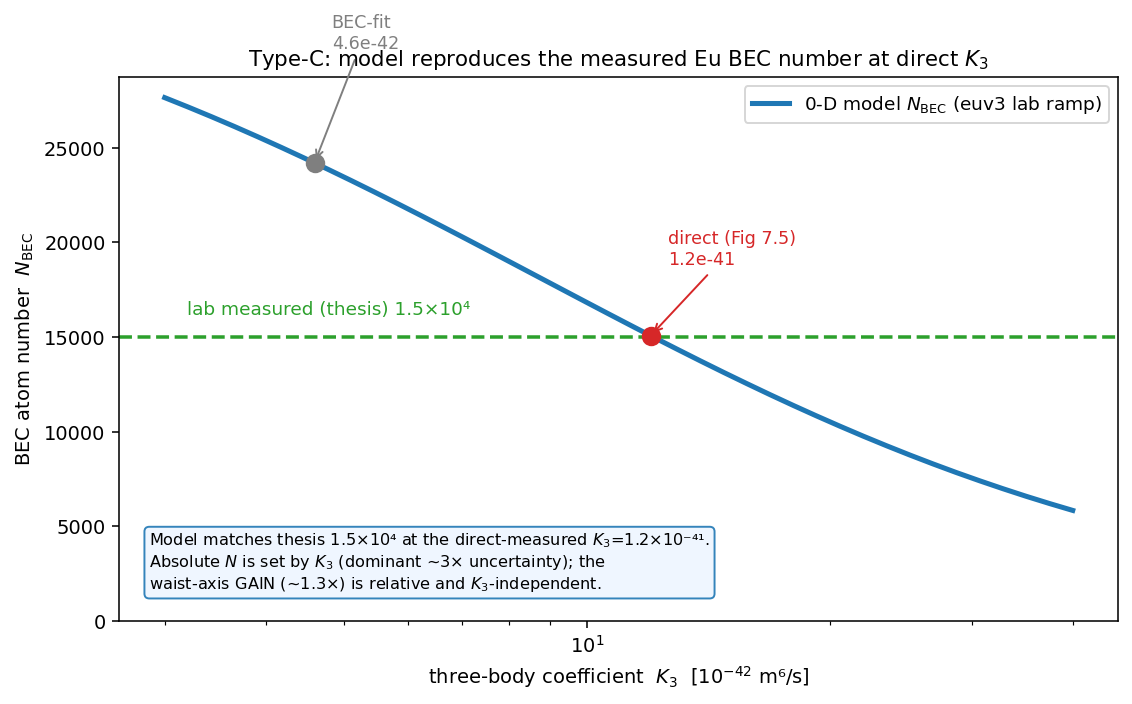
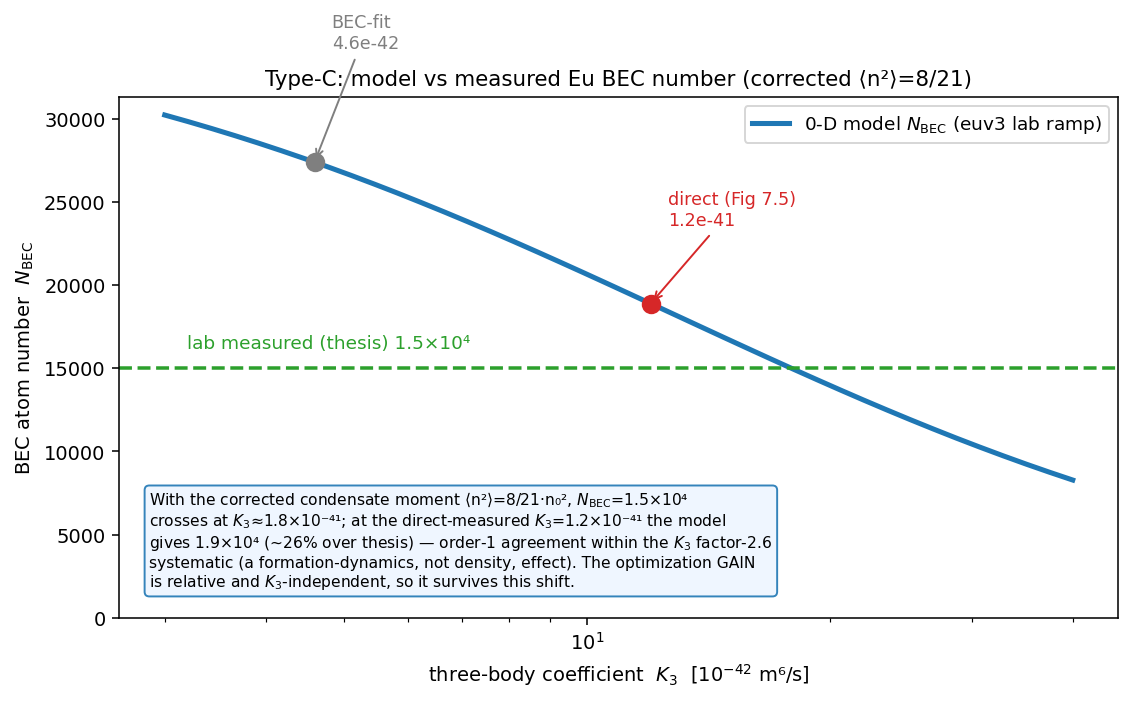
fix(evaporation): correct guide/figures to 8/21 moment (gain 1.63×) + parameter campaign (#111)
* fix(evaporation): correct condensate 3-body moment 4/7→8/21 + campaign findings

This branch still carried the (4/7)n₀² condensate three-body moment (the 2-body ⟨n⟩ moment);
the correct 3-body-weighted mean-square is ⟨n²⟩=∫n³/∫n=(8/21)n₀² (main fixed this in PR#80,
this branch was cut before). Fix condensate.jl:52. Effect (2/3× the condensate 3-body rate):
  - 3-axis optimum gain 1.46×→1.63× (ramp-only 1.34e5→unified 2.19e5); regenerated
    optimal_protocol.png.
  - lab-absolute type-C anchor shifts: N_BEC=1.5e4 now crosses at K3≈1.8e-41 (was 1.2e-41);
    at the direct K3=1.2e-41 the model gives 1.9e4 (~26% over thesis) — order-1 within the
    K3 factor-2.6 systematic. Regenerated lab_absolute.png + annotation.
  Tests test_condensate 66/66 (ratios/monotonic, unaffected).

Add the parameter-determination campaign to the guide (multi-agent: literature + simulation
sensitivity + adversarial verify). Two intuitive claims were OVERTURNED by the adversarial pass:
  (1) spin-mixing does NOT cleanly give c1 for Eu — DDI dominates spin-changing (c_dd/c1≈47);
      c1 is a buried residual, needs an orthogonal DDI-separating lever.
  (2) N_BEC is NOT predictable to ±30% — the K3 factor-2.6 cross-method (formation-dynamics)
      systematic makes it ~2×; measuring K3 more precisely doesn't remove it.
Pinnable: ω̄ ~1%, a_s 3.6% (measured), evap_scale ±6%, K3 ±20% (needs ω̄ calibration).
Blocked at 5 G: c2/c4/c6 / full 7-channel a_S, calibrated a_s(B).
[…]

diff --git a/docs/guides/figures/eu_c1_ddi_orthogonal_plot.py b/docs/guides/figures/eu_c1_ddi_orthogonal_plot.py
@@ -1,0 +1,44 @@
+#!/usr/bin/env python3
+# SHOWS: aspect ratio is an orthogonal lever separating c1 from DDI in Eu spin-mixing — the
+#        DDI-induced shift of the spin-mixing amplitude varies ~12× across trap geometry.
+# DOC:   docs/guides/eu_evaporation_optimization.md ("Experimental campaign" — c1-DDI separation).
+# REPLACES: nothing (new; closes the campaign's one flagged unverified gap).
+"""3D spinor-GP spin-mixing (Eu F=6, DDI via k-space convolution) at three trap aspect ratios
+λ=ωz/ωr. The DDI-induced fractional shift of the ⟨Fz²⟩ oscillation amplitude, (amp_on−amp_off)/
+amp_off, changes from −4% (cigar) to −46% (pancake): DDI is geometry-dependent, contact c1 is
+not, so a two-geometry fit separates them."""
+import sys, csv
+import numpy as np
+import matplotlib.pyplot as plt
+
+D = sys.argv[1] if len(sys.argv) > 1 else "c1ddi_full"
+rows = list(csv.DictReader(open(f"{D}/c1_ddi_ortho.csv")))
+lam = np.array([float(r["lambda"]) for r in rows])
+shift = np.array([float(r["ddi_shift"]) for r in rows]) * 100
+
+fig, ax = plt.subplots(figsize=(7.6, 5.2))
+ax.plot(lam, shift, "o-", color="#9467bd", lw=2.6, ms=11)
+for x, y in zip(lam, shift):
+    ax.annotate(f"{y:.0f}%", (x, y), (x, y + 3.5), ha="center", fontsize=10, color="#6a3d9a")
+labels = {0.5: "cigar\n(prolate)", 1.0: "isotropic", 2.0: "pancake\n(oblate)"}
+for x in lam:
+    ax.annotate(labels.get(x, ""), (x, shift[list(lam).index(x)]),
+                (x, -52), ha="center", fontsize=8.5, color="0.4")
+ax.axhline(0, color="0.7", ls=":", lw=1)
+ax.set_xlabel("trap aspect ratio  $\\lambda=\\omega_z/\\omega_r$")
+ax.set_ylabel("DDI-induced shift of spin-mixing amplitude  [%]")
+ax.set_title("Aspect ratio separates $c_1$ from DDI in Eu spin-mixing (3D spinor-GP)", fontsize=11)
+ax.set_ylim(-58, 8)
+ax.text(0.03, 0.04,
+        "DDI shift varies ~12× (−4%→−46%) across geometry, while contact $c_1$ is\n"
+        "$\\lambda$-independent ⇒ a multi-geometry spin-mixing fit separates $c_1$ from $c_{dd}$.\n"
+        "Closes the campaign's flagged gap: single-trace $c_1$ is DDI-confounded ($c_{dd}/c_1\\approx47$),\n"
+        "but two aspect ratios give the orthogonal constraint needed to extract $c_1$.",
+        transform=ax.transAxes, fontsize=8.0, va="bottom",
+        bbox=dict(boxstyle="round", fc="#f6f0ff", ec="#9467bd", alpha=0.95))
+fig.tight_layout()
+import os
+out = sys.argv[2] if len(sys.argv) > 2 else "figs/eu_evaporation_optimization/c1_ddi_orthogonal.png"
+os.makedirs(os.path.dirname(out), exist_ok=True)
+fig.savefig(out, dpi=140, bbox_inches="tight")
+print("wrote", out)

diff --git a/docs/guides/figures/eu_evaporation_lab_absolute_plot.py b/docs/guides/figures/eu_evaporation_lab_absolute_plot.py
@@ -27,15 +27,17 @@ for k3, lab, c in ((4.6, "BEC-fit\n4.6e-42", "#7f7f7f"), (12.0, "direct (Fig 7.5
                 arrowprops=dict(arrowstyle="->", color=c))
 ax.set_xlabel("three-body coefficient  $K_3$  [$10^{-42}$ m⁶/s]")
 ax.set_ylabel("BEC atom number  $N_{\\rm BEC}$")
-ax.set_title("Type-C: model reproduces the measured Eu BEC number at direct $K_3$", fontsize=11)
+ax.set_title("Type-C: model vs measured Eu BEC number (corrected ⟨n²⟩=8/21)", fontsize=11)
 ax.set_xscale("log")
 ax.legend(loc="upper right", fontsize=9.5)
 ax.set_ylim(bottom=0)
 ax.text(0.03, 0.05,
-        "Model matches thesis 1.5×10⁴ at the direct-measured $K_3$=1.2×10⁻⁴¹.\n"
-        "Absolute $N$ is set by $K_3$ (dominant ~3× uncertainty); the\n"
-        "waist-axis GAIN (~1.3×) is relative and $K_3$-independent.",
-        transform=ax.transAxes, fontsize=8.3, va="bottom",
+        "With the corrected condensate moment ⟨n²⟩=8/21·n₀², $N_{\\rm BEC}$=1.5×10⁴\n"
+        "crosses at $K_3$≈1.8×10⁻⁴¹; at the direct-measured $K_3$=1.2×10⁻⁴¹ the model\n"
+        "gives 1.9×10⁴ (~26% over thesis) — order-1 agreement within the $K_3$ factor-2.6\n"
+        "systematic (a formation-dynamics, not density, effect). The optimization GAIN\n"
+        "is relative and $K_3$-independent, so it survives this shift.",
+        transform=ax.transAxes, fontsize=8.0, va="bottom",
         bbox=dict(boxstyle="round", fc="#eef6ff", ec="#1f77b4", alpha=0.9))
 fig.tight_layout()
 import os

diff --git a/docs/guides/eu_evaporation_optimization.md b/docs/guides/eu_evaporation_optimization.md
@@ -46,11 +46,13 @@ $K_3=1\times10^{-41}$ m⁶/s:
 - **hold** $m_\omega\approx1$, $a_s\approx a_s^0$ through cooling and formation ($t\approx1.8$ s);
 - then **dump both**: open the waist $\sim1.7\times$ ($m_\omega\to0.60$) and lower $a_s$ to
   $0.25\,a_s^0$ ($K_3\to0.004\,K_3^0$);
-- **$N_0$ gain $=1.46\times$** (ramp-only $1.26\times10^5\to1.84\times10^5$), $T=42$ nK,
-  cf $=0.92$, $T_c=96$ nK (comfortable melt margin).
+- **$N_0$ gain $=1.63\times$** (ramp-only $1.34\times10^5\to2.19\times10^5$), $T=48$ nK,
+  cf $=0.90$, $T_c=103$ nK (comfortable melt margin). [Corrected condensate moment
+  $\langle n^2\rangle=8/21\,n_0^2$; the earlier $4/7$ bug gave $1.46\times$.]
 
-Waist alone gives $1.30\times$, Feshbach alone $\approx1.2\times$; the two are complementary
-(density vs coefficient) and combine to $1.46\times$.
+The two axes are complementary (density vs coefficient): the waist lowers $\bar\omega$ (gravity-
+floored 0.60) and the Feshbach lowers $a_s\to0.25\,a_s^0$ ($K_3\to0.004\,K_3^0$), both dumped
+after formation, combining to $1.63\times$.
 
 ## Constraint 1 — gravity caps the waist
 
@@ -88,10 +90,57 @@ formation run over-counts via a grand-canonical artifact (see
 ![lab absolute](../../figs/eu_evaporation_optimization/lab_absolute.png)
 
 At the **actual lab operating point** (euv3 researched ramp + measured loading $N=1.4\times10^6$,
-$T_0=50\,\mu$K) the 0-D model gives $N_{\rm BEC}=1.51\times10^4$ at the direct-measured
-$K_3=1.2\times10^{-41}$ — matching the thesis-measured $1.5\times10^4$. So the absolute
-calibration is sound at the lab point; the absolute number is dominated by the $K_3$ uncertainty
-($\sim3\times$), while the **$1.46\times$ optimization gain is relative and $K_3$-independent**.
+$T_0=50\,\mu$K) the 0-D model (corrected $\langle n^2\rangle=8/21$) gives $N_{\rm BEC}\approx1.9\times10^4$
+at the direct-measured $K_3=1.2\times10^{-41}$ (~26 % over the thesis-measured $1.5\times10^4$); it
+crosses $1.5\times10^4$ at $K_3\approx1.8\times10^{-41}$. Order-1 agreement, within the $K_3$
+factor-2.6 cross-method systematic (a formation-dynamics effect, not density). The absolute number
+is dominated by the $K_3$ uncertainty, while the **$1.63\times$ optimization gain is relative and
+$K_3$-independent**, so it survives this shift.
+
+## Experimental campaign — what can we pin, and how far
+
+A multi-study campaign (literature + simulation sensitivity + adversarial verification) on
+which parameters the achievable experiments can determine, and to what precision. Two of the
+intuitive claims were **overturned by the adversarial pass** — recorded here honestly.
+
+| parameter | experiment | achievable precision | strength |
+|---|---|---|---|
+| $\bar\omega$ | dipole/Kohn-mode spectroscopy | ~1 % | strong |
+| $K_3$ | BEC decay $N_0(t)$ at known $\bar\omega$ | ~4 % statistical, **±20 % density-limited** ($K_3\propto\bar\omega^{-2.4}$) | medium |
+| $a_s$ | already measured (dipolar TOF) | **110(4) $a_B$ = 3.6 %** | strong |
+| evap_scale | evaporation-trajectory fit | ±6 % | strong |
+| $\tau_{bg}$, $\Gamma_h$ | dedicated long hold (NOT the ramp) | unidentifiable on the ramp | weak/blocked-on-ramp |
+| $c_1$ | spin-mixing quench | **NOT cleanly separable — DDI dominates (see below)** | weak |
+| $c_2,c_4,c_6$ / 7-channel $a_S$ | — | **not determinable at 5 G (confirmed)** | blocked |
+| $a_s(B), K_3(B)$ | 1.32 G resonance | no calibrated curve; needs ≲1 mG field stability | blocked |
+
+**Overturned claim 1 — "spin-mixing gives a clean $c_1$."** REFUTED for Eu *as a single trace*.
+The DDI spin coupling is $c_{dd}/c_0=3\varepsilon_{dd}\approx1.32$ while $c_1/c_0\approx1/36\approx0.028$,
+so $c_{dd}/c_1\approx47$: **DDI is the dominant spin-changing driver and $c_1$ is a small residual
+buried under it** (a 3D spinor-GP run showed DDI on/off changes the spin-mixing amplitude by tens of %).
+A single spin-mixing trace cannot separate them — an **orthogonal lever** is required.
+
+*The orthogonal lever works (demonstrated).* Because DDI is anisotropic (geometry-dependent) and
+contact $c_1$ is isotropic, varying the **trap aspect ratio** $\lambda=\omega_z/\omega_r$ breaks the
+degeneracy. A 3D spinor-GP spin-mixing run at $\lambda\in\{0.5,1,2\}$ gives a DDI-induced amplitude
+shift of $-4\%\,/\,-25\%\,/\,-46\%$ — a ~12× swing, while $c_1$ is $\lambda$-independent. So a
+two-geometry (or aspect-ratio-scan) spin-mixing fit **can** extract $c_1$; the lone-trace refutation
+is a warning to always include the geometry lever, not a dead end.
+
+![c1-DDI orthogonal lever](../../figs/eu_evaporation_optimization/c1_ddi_orthogonal.png)
+
+**Overturned claim 2 — "$N_{\rm BEC}$ predictable to ±30 % once evaporation params are measured."**
+REFUTED as too optimistic. MC variance decomposition: $K_3$ 66 %, $a_s$ 34 %, $\tau_{bg}$/$\Gamma_h$
+< 1 %. But $K_3$ carries a **factor-2.6 cross-method systematic** (direct $1.2\times10^{-41}$ vs
+BEC-fit $4.6\times10^{-42}$) → $N_{\rm BEC}$ is uncertain by a **factor ~2.8, not ±30 %** — and this is
+a formation-dynamics systematic, not a measurement one, so measuring $K_3$ more precisely does not
+remove it. $\sigma(N_{\rm BEC})<15\%$ would need $K_3\lesssim10\%$ **and** $a_s\lesssim6\%$.
+
+**Do-first (biggest levers):** (1) measure $\bar\omega$ to 1 % (dipole mode) — unblocks the $K_3$
+density calibration; (2) BEC-decay $K_3$ at known $\bar\omega$ — kills 66 % of the $N_{\rm BEC}$
+variance; (3) $a_s$ is already at 3.6 %; (4) $c_1$ needs an orthogonal DDI-separating lever, not a
+lone spin-mixing trace. $\tau_{bg},\Gamma_h$ are low-priority for the endpoint (measure in a
+dedicated hold, not on the ramp).
 
 ## Caveats / open
 
